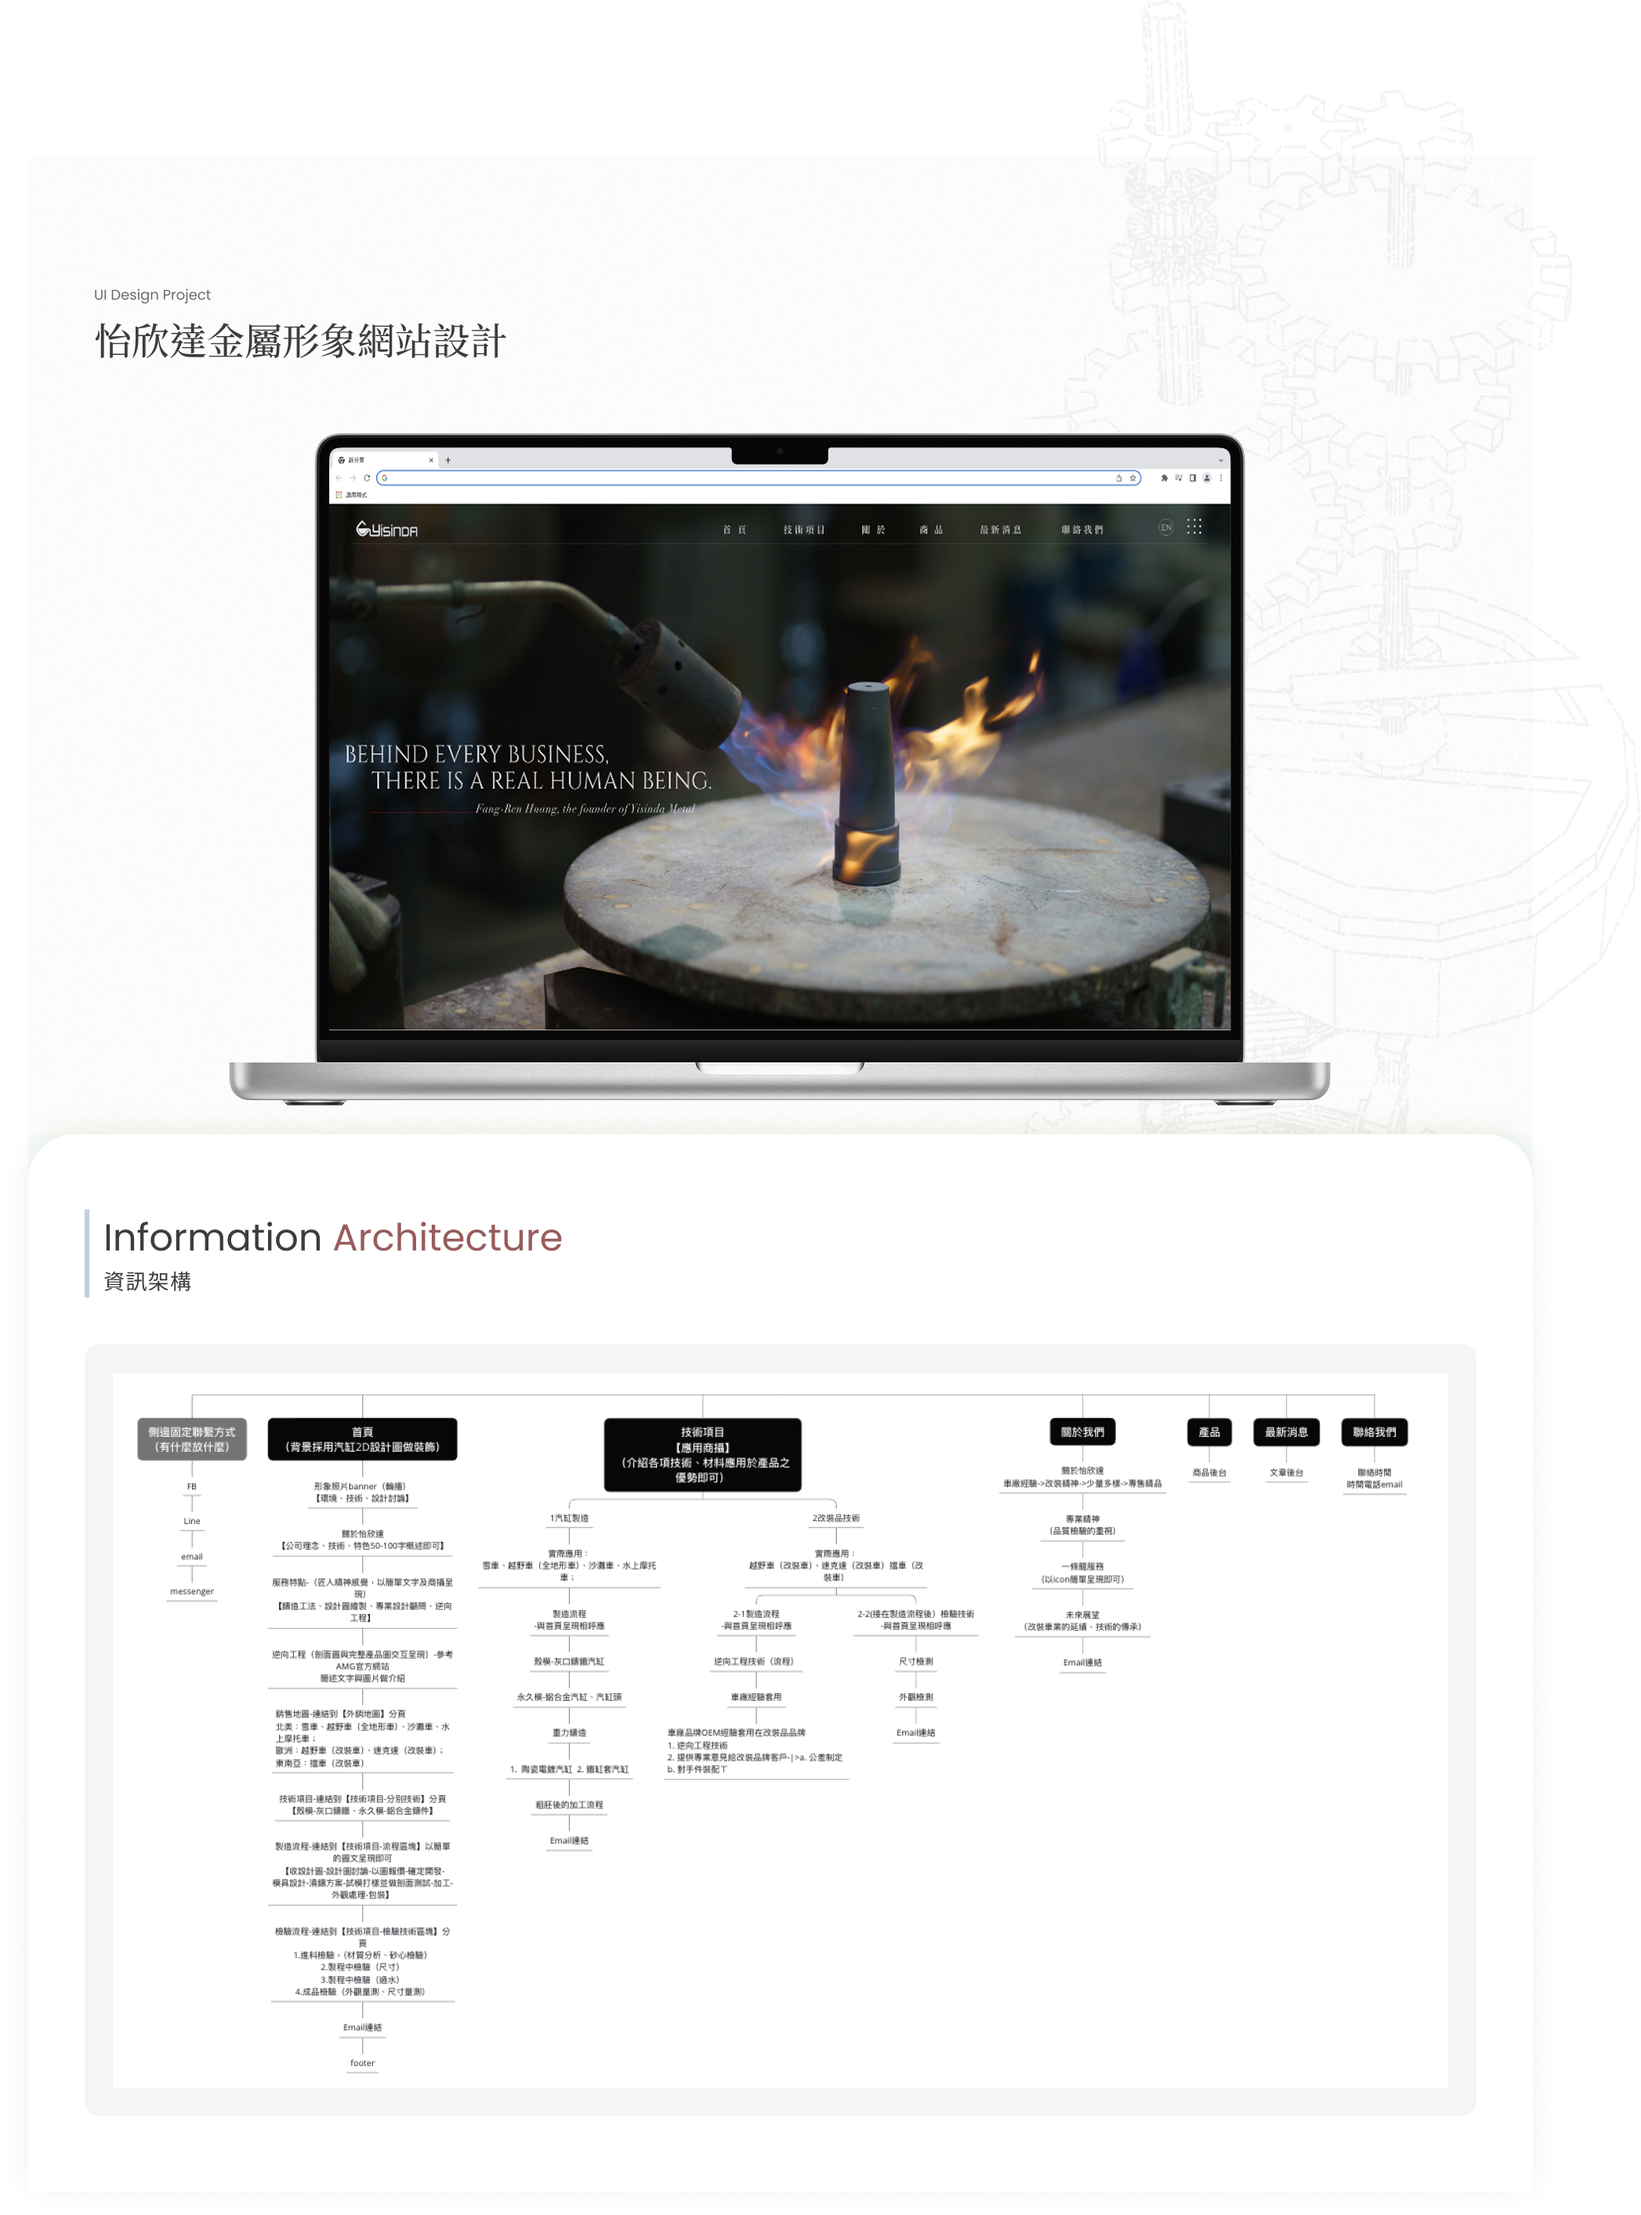
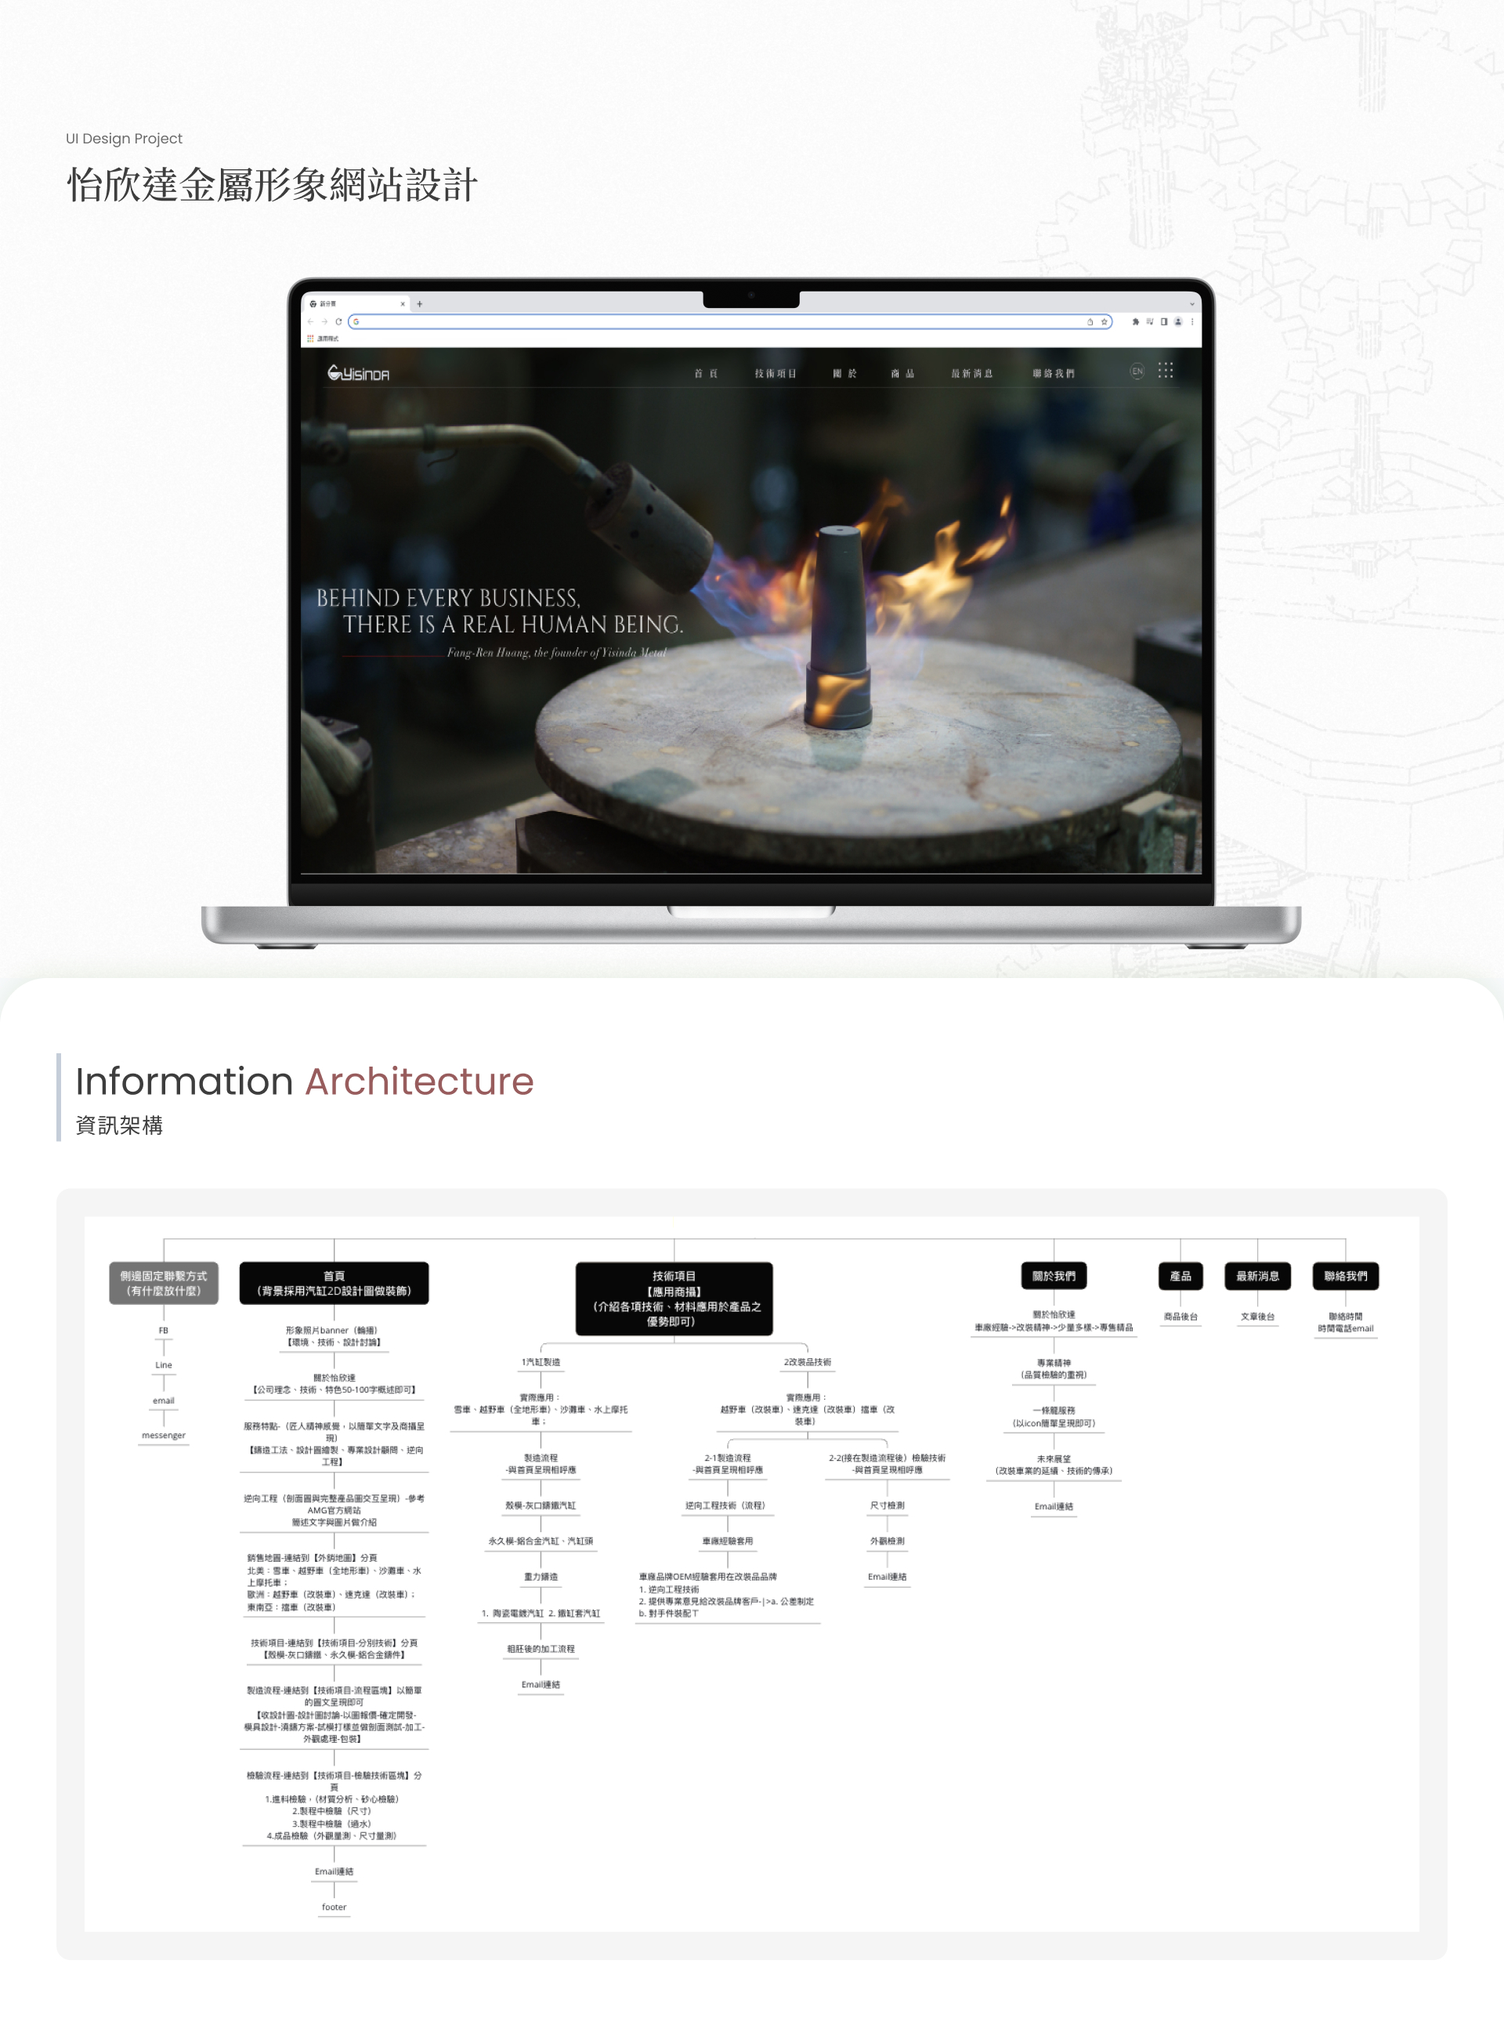
yisinda-01: refresh image (v=2)

Changed region(s): [[0.0625, 0.1247, 0.875, 0.4988], [0.0312, 0.53, 0.9375, 0.9353], [0.0312, 0.0624, 0.3125, 0.0935]]

diff --git a/project-yisinda.html b/project-yisinda.html
@@ -10,7 +10,7 @@
 <link rel="preconnect" href="https://fonts.googleapis.com">
 <link rel="preconnect" href="https://fonts.gstatic.com" crossorigin>
 <link href="https://fonts.googleapis.com/css2?family=Poppins:wght@300;400;500;600&family=Noto+Sans+TC:wght@300;400;500;600&display=swap" rel="stylesheet">
-<link rel="stylesheet" href="assets/styles.css?v=98">
+<link rel="stylesheet" href="assets/styles.css?v=99">
 </head>
 <body class="page-theme proj-wide">
 
@@ -48,7 +48,7 @@
 
 <!-- IMAGES + INLINE VIDEOS (no gap between) -->
 <div style="max-width:1200px;margin:48px auto 0;padding:0 24px">
-  <img src="./images/yisinda-01.jpg" alt="怡欣達形象網站設計 — 01" style="width:100%;height:auto;display:block">
+  <img src="./images/yisinda-01.jpg?v=2" alt="怡欣達形象網站設計 — 01" style="width:100%;height:auto;display:block">
 </div>
 <div style="max-width:1200px;margin:0 auto;padding:0 24px">
   <img src="./images/yisinda-02.jpg" alt="怡欣達形象網站設計 — 02" style="width:100%;height:auto;display:block">
@@ -79,6 +79,6 @@
 <script src="https://cdn.jsdelivr.net/npm/lenis@1.1.13/dist/lenis.min.js"></script>
 <script src="https://cdnjs.cloudflare.com/ajax/libs/gsap/3.12.5/gsap.min.js"></script>
 <script src="https://cdnjs.cloudflare.com/ajax/libs/gsap/3.12.5/ScrollTrigger.min.js"></script>
-<script src="assets/main.js?v=98"></script>
+<script src="assets/main.js?v=99"></script>
 </body>
 </html>

diff --git a/index.html b/index.html
@@ -10,7 +10,7 @@
 <link rel="preconnect" href="https://fonts.googleapis.com">
 <link rel="preconnect" href="https://fonts.gstatic.com" crossorigin>
 <link href="https://fonts.googleapis.com/css2?family=Poppins:wght@300;400;500;600&family=Noto+Sans+TC:wght@300;400;500;600&display=swap" rel="stylesheet">
-<link rel="stylesheet" href="assets/styles.css?v=98">
+<link rel="stylesheet" href="assets/styles.css?v=99">
 <style id="home-tweak">.hero,.hero-bg,.hero::after{display:none!important}</style>
 </head>
 <body>
@@ -153,6 +153,6 @@
 <script src="https://cdn.jsdelivr.net/npm/lenis@1.1.13/dist/lenis.min.js"></script>
 <script src="https://cdnjs.cloudflare.com/ajax/libs/gsap/3.12.5/gsap.min.js"></script>
 <script src="https://cdnjs.cloudflare.com/ajax/libs/gsap/3.12.5/ScrollTrigger.min.js"></script>
-<script src="assets/main.js?v=98"></script>
+<script src="assets/main.js?v=99"></script>
 </body>
 </html>

diff --git a/project.html b/project.html
@@ -10,7 +10,7 @@
 <link rel="preconnect" href="https://fonts.googleapis.com">
 <link rel="preconnect" href="https://fonts.gstatic.com" crossorigin>
 <link href="https://fonts.googleapis.com/css2?family=Poppins:wght@300;400;500;600&family=Noto+Sans+TC:wght@300;400;500;600&display=swap" rel="stylesheet">
-<link rel="stylesheet" href="assets/styles.css?v=98">
+<link rel="stylesheet" href="assets/styles.css?v=99">
 </head>
 <body class="page-theme proj-wide">
 
@@ -124,6 +124,6 @@
 <script src="https://cdn.jsdelivr.net/npm/lenis@1.1.13/dist/lenis.min.js"></script>
 <script src="https://cdnjs.cloudflare.com/ajax/libs/gsap/3.12.5/gsap.min.js"></script>
 <script src="https://cdnjs.cloudflare.com/ajax/libs/gsap/3.12.5/ScrollTrigger.min.js"></script>
-<script src="assets/main.js?v=98"></script>
+<script src="assets/main.js?v=99"></script>
 </body>
 </html>

diff --git a/project-easycycle.html b/project-easycycle.html
@@ -10,7 +10,7 @@
 <link rel="preconnect" href="https://fonts.googleapis.com">
 <link rel="preconnect" href="https://fonts.gstatic.com" crossorigin>
 <link href="https://fonts.googleapis.com/css2?family=Poppins:wght@300;400;500;600&family=Noto+Sans+TC:wght@300;400;500;600&display=swap" rel="stylesheet">
-<link rel="stylesheet" href="assets/styles.css?v=98">
+<link rel="stylesheet" href="assets/styles.css?v=99">
 </head>
 <body class="page-theme proj-wide">
 
@@ -72,6 +72,6 @@
 <script src="https://cdn.jsdelivr.net/npm/lenis@1.1.13/dist/lenis.min.js"></script>
 <script src="https://cdnjs.cloudflare.com/ajax/libs/gsap/3.12.5/gsap.min.js"></script>
 <script src="https://cdnjs.cloudflare.com/ajax/libs/gsap/3.12.5/ScrollTrigger.min.js"></script>
-<script src="assets/main.js?v=98"></script>
+<script src="assets/main.js?v=99"></script>
 </body>
 </html>

diff --git a/project-easycycle2.html b/project-easycycle2.html
@@ -10,7 +10,7 @@
 <link rel="preconnect" href="https://fonts.googleapis.com">
 <link rel="preconnect" href="https://fonts.gstatic.com" crossorigin>
 <link href="https://fonts.googleapis.com/css2?family=Poppins:wght@300;400;500;600&family=Noto+Sans+TC:wght@300;400;500;600&display=swap" rel="stylesheet">
-<link rel="stylesheet" href="assets/styles.css?v=98">
+<link rel="stylesheet" href="assets/styles.css?v=99">
 </head>
 <body class="page-theme proj-wide">
 
@@ -69,6 +69,6 @@
 <script src="https://cdn.jsdelivr.net/npm/lenis@1.1.13/dist/lenis.min.js"></script>
 <script src="https://cdnjs.cloudflare.com/ajax/libs/gsap/3.12.5/gsap.min.js"></script>
 <script src="https://cdnjs.cloudflare.com/ajax/libs/gsap/3.12.5/ScrollTrigger.min.js"></script>
-<script src="assets/main.js?v=98"></script>
+<script src="assets/main.js?v=99"></script>
 </body>
 </html>

diff --git a/project-greenroad.html b/project-greenroad.html
@@ -10,7 +10,7 @@
 <link rel="preconnect" href="https://fonts.googleapis.com">
 <link rel="preconnect" href="https://fonts.gstatic.com" crossorigin>
 <link href="https://fonts.googleapis.com/css2?family=Poppins:wght@300;400;500;600&family=Noto+Sans+TC:wght@300;400;500;600&display=swap" rel="stylesheet">
-<link rel="stylesheet" href="assets/styles.css?v=98">
+<link rel="stylesheet" href="assets/styles.css?v=99">
 </head>
 <body class="page-theme proj-wide">
 
@@ -69,6 +69,6 @@
 <script src="https://cdn.jsdelivr.net/npm/lenis@1.1.13/dist/lenis.min.js"></script>
 <script src="https://cdnjs.cloudflare.com/ajax/libs/gsap/3.12.5/gsap.min.js"></script>
 <script src="https://cdnjs.cloudflare.com/ajax/libs/gsap/3.12.5/ScrollTrigger.min.js"></script>
-<script src="assets/main.js?v=98"></script>
+<script src="assets/main.js?v=99"></script>
 </body>
 </html>

diff --git a/project-nmtl.html b/project-nmtl.html
@@ -10,7 +10,7 @@
 <link rel="preconnect" href="https://fonts.googleapis.com">
 <link rel="preconnect" href="https://fonts.gstatic.com" crossorigin>
 <link href="https://fonts.googleapis.com/css2?family=Poppins:wght@300;400;500;600&family=Noto+Sans+TC:wght@300;400;500;600&display=swap" rel="stylesheet">
-<link rel="stylesheet" href="assets/styles.css?v=98">
+<link rel="stylesheet" href="assets/styles.css?v=99">
 </head>
 <body class="page-theme proj-wide">
 
@@ -69,6 +69,6 @@
 <script src="https://cdn.jsdelivr.net/npm/lenis@1.1.13/dist/lenis.min.js"></script>
 <script src="https://cdnjs.cloudflare.com/ajax/libs/gsap/3.12.5/gsap.min.js"></script>
 <script src="https://cdnjs.cloudflare.com/ajax/libs/gsap/3.12.5/ScrollTrigger.min.js"></script>
-<script src="assets/main.js?v=98"></script>
+<script src="assets/main.js?v=99"></script>
 </body>
 </html>

diff --git a/project-teacherwen.html b/project-teacherwen.html
@@ -10,7 +10,7 @@
 <link rel="preconnect" href="https://fonts.googleapis.com">
 <link rel="preconnect" href="https://fonts.gstatic.com" crossorigin>
 <link href="https://fonts.googleapis.com/css2?family=Poppins:wght@300;400;500;600&family=Noto+Sans+TC:wght@300;400;500;600&display=swap" rel="stylesheet">
-<link rel="stylesheet" href="assets/styles.css?v=98">
+<link rel="stylesheet" href="assets/styles.css?v=99">
 </head>
 <body class="page-theme proj-wide">
 
@@ -72,6 +72,6 @@
 <script src="https://cdn.jsdelivr.net/npm/lenis@1.1.13/dist/lenis.min.js"></script>
 <script src="https://cdnjs.cloudflare.com/ajax/libs/gsap/3.12.5/gsap.min.js"></script>
 <script src="https://cdnjs.cloudflare.com/ajax/libs/gsap/3.12.5/ScrollTrigger.min.js"></script>
-<script src="assets/main.js?v=98"></script>
+<script src="assets/main.js?v=99"></script>
 </body>
 </html>

diff --git a/motion.html b/motion.html
@@ -10,7 +10,7 @@
 <link rel="preconnect" href="https://fonts.googleapis.com">
 <link rel="preconnect" href="https://fonts.gstatic.com" crossorigin>
 <link href="https://fonts.googleapis.com/css2?family=Poppins:wght@300;400;500;600&family=Noto+Sans+TC:wght@300;400;500;600&display=swap" rel="stylesheet">
-<link rel="stylesheet" href="assets/styles.css?v=98">
+<link rel="stylesheet" href="assets/styles.css?v=99">
 </head>
 <body class="page-theme">
 
@@ -114,6 +114,6 @@
 <script src="https://cdn.jsdelivr.net/npm/lenis@1.1.13/dist/lenis.min.js"></script>
 <script src="https://cdnjs.cloudflare.com/ajax/libs/gsap/3.12.5/gsap.min.js"></script>
 <script src="https://cdnjs.cloudflare.com/ajax/libs/gsap/3.12.5/ScrollTrigger.min.js"></script>
-<script src="assets/main.js?v=98"></script>
+<script src="assets/main.js?v=99"></script>
 </body>
 </html>

diff --git a/uiux.html b/uiux.html
@@ -10,7 +10,7 @@
 <link rel="preconnect" href="https://fonts.googleapis.com">
 <link rel="preconnect" href="https://fonts.gstatic.com" crossorigin>
 <link href="https://fonts.googleapis.com/css2?family=Poppins:wght@300;400;500;600&family=Noto+Sans+TC:wght@300;400;500;600&display=swap" rel="stylesheet">
-<link rel="stylesheet" href="assets/styles.css?v=98">
+<link rel="stylesheet" href="assets/styles.css?v=99">
 </head>
 <body class="page-theme">
 
@@ -134,6 +134,6 @@
 <script src="https://cdn.jsdelivr.net/npm/lenis@1.1.13/dist/lenis.min.js"></script>
 <script src="https://cdnjs.cloudflare.com/ajax/libs/gsap/3.12.5/gsap.min.js"></script>
 <script src="https://cdnjs.cloudflare.com/ajax/libs/gsap/3.12.5/ScrollTrigger.min.js"></script>
-<script src="assets/main.js?v=98"></script>
+<script src="assets/main.js?v=99"></script>
 </body>
 </html>
